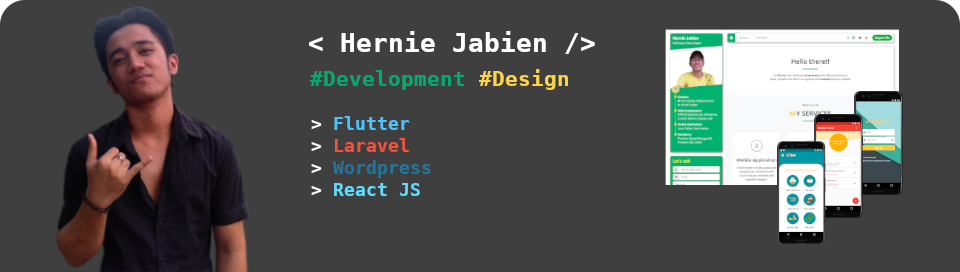
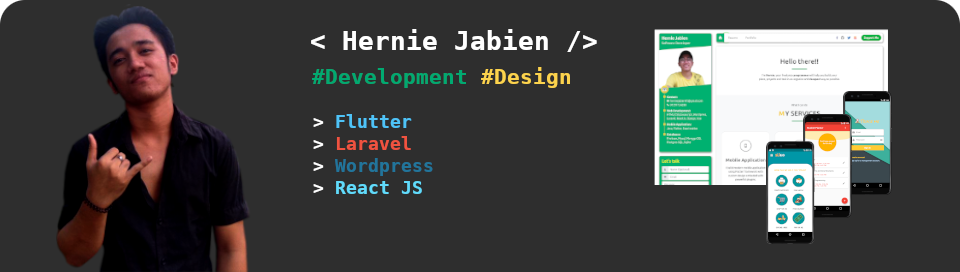
Added automation && Cleaner code

diff --git a/README.md b/README.md
@@ -1,16 +1,11 @@
-<!-- <img width="100%" src="https://user-images.githubusercontent.com/49686277/109705521-4e6b1300-7bb1-11eb-8380-48681240721a.png" /> -->
-<img width="100%" src="./img/banner_darker.png" style="border-top-right-radius: 25px !important; border-top-left-radius: 25px !important" />
+<img width="100%" src="./img/banner.png" style="border-top-right-radius: 25px !important; border-top-left-radius: 25px !important" />
 
-### Hi there, I'm Hernie <img height="30px" src="https://raw.githubusercontent.com/ABSphreak/ABSphreak/master/gifs/Hi.gif" /><!-- 👋 -->
+### Hi there, I'm Hernie <img height="30px" src="https://raw.githubusercontent.com/ABSphreak/ABSphreak/master/gifs/Hi.gif" />
 
 ## Full Stack Software Developer <img src="https://cultofthepartyparrot.com/parrots/hd/githubparrot.gif" width="25" height="25"/><img src="https://cultofthepartyparrot.com/flags/hd/iranparrot.gif" width="25" height="25"/><img src="https://cultofthepartyparrot.com/parrots/asyncparrot.gif" width="36" height="25"/>
 
 <p align="left"> <img src="https://komarev.com/ghpvc/?username=herndev&label=Profile%20views&color=0e75b6&style=for-the-badge" alt="herndev" /> </p>
 
-<!--
-**herndev/herndev** is a ✨ _special_ ✨ repository because its `README.md` (this file) appears on your GitHub profile.
-Here are some ideas to get you started:
--->
 
 <br />
 
@@ -37,7 +32,6 @@ Here are some ideas to get you started:
 
 <br />
  
- <!-- <img src="https://github-profile-trophy.vercel.app/?username=herndev&theme=radical"/> -->
  
 <details>
   <summary style="font-size: 16px"> ℹ About Me</summary>
@@ -45,9 +39,6 @@ Here are some ideas to get you started:
 ---
 
 ### Check out my portfolio click [here](https://www.hernie-jabien.com/).
-
-<!-- #### Visit my website click [here](https://herniedev.codes). -->
-<!-- #### Checkout my blogging site click [here](http://hernie.me). -->
 
 ```
 For Web Development I work on frameworks like Wordpress, Laravel, Django, ReactJs and Vue.
@@ -84,23 +75,53 @@ In Mobile App Development I usually work with Flutter framework.
 
 </details>
 
+
+<details>
+  <summary style="font-size: 16px"> 💻 Tech Updates & Memes</summary>
+
+---
+
+### 🎮 Game news for the hour
+
+<!-- GAME:START -->
+<!-- GAME:END -->
+
+### 💻 Tech news for the hour
+
+<!-- TECH:START -->
+<!-- TECH:END -->
+### 😂 Memes of the hour
+
+<!-- MEMES:START --
+<!-- MEMES:END -->
+
+---
+
+</details>
+
+
 <details>
   <summary style="font-size: 16px"> 📈 Github Status</summary>
 
 ---
+
+### 💬 Acyivities
+
+<!--START_SECTION:activity-->
+<!--END_SECTION:activity-->
+
 
 <p align="left">
 <img height="170px" src="https://github-readme-stats.vercel.app/api/top-langs/?username=herndev&langs_count=10&layout=compact" alt="herndev :: Top Langs" />
 <img height="170px" src="https://github-readme-stats.vercel.app/api?username=herndev&show_icons=true" alt="herndev :: Profile Stats" />
 </p>
 
+<!--START_SECTION:waka-->
+<!--END_SECTION:waka-->
+
 ---
 
 </details>
 
-<!-- <p align="center">
- <img width="450px" height="450px" src="https://github-readme-stats.vercel.app/api/top-langs/?username=herndev&langs_count=10&theme=merko&layout=compact" alt="herndev :: Top Langs" />
- <img width="450px" height="450px" bg-color="black" src="https://github-readme-stats.vercel.app/api?username=herndev&show_icons=true&theme=merko" alt="herndev :: Profile Stats" />
-</p> -->
 
 <img height="120" alt="Thanks for visiting my profile" width="100%" src="https://github.com/dibyendu415/dibyendu415/blob/master/marquee.svg" />
